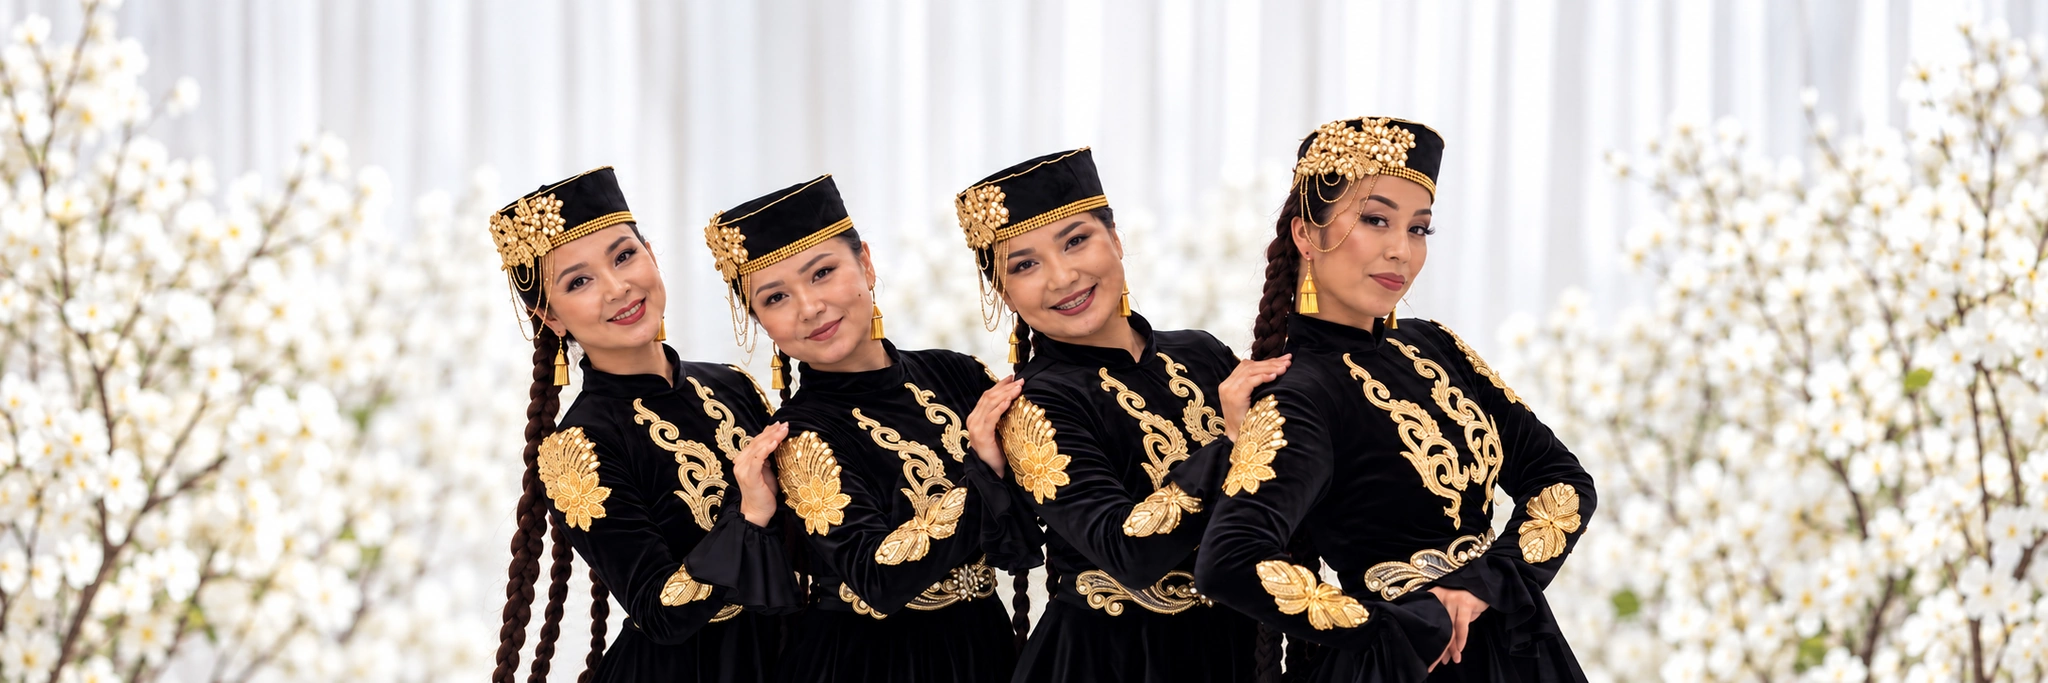
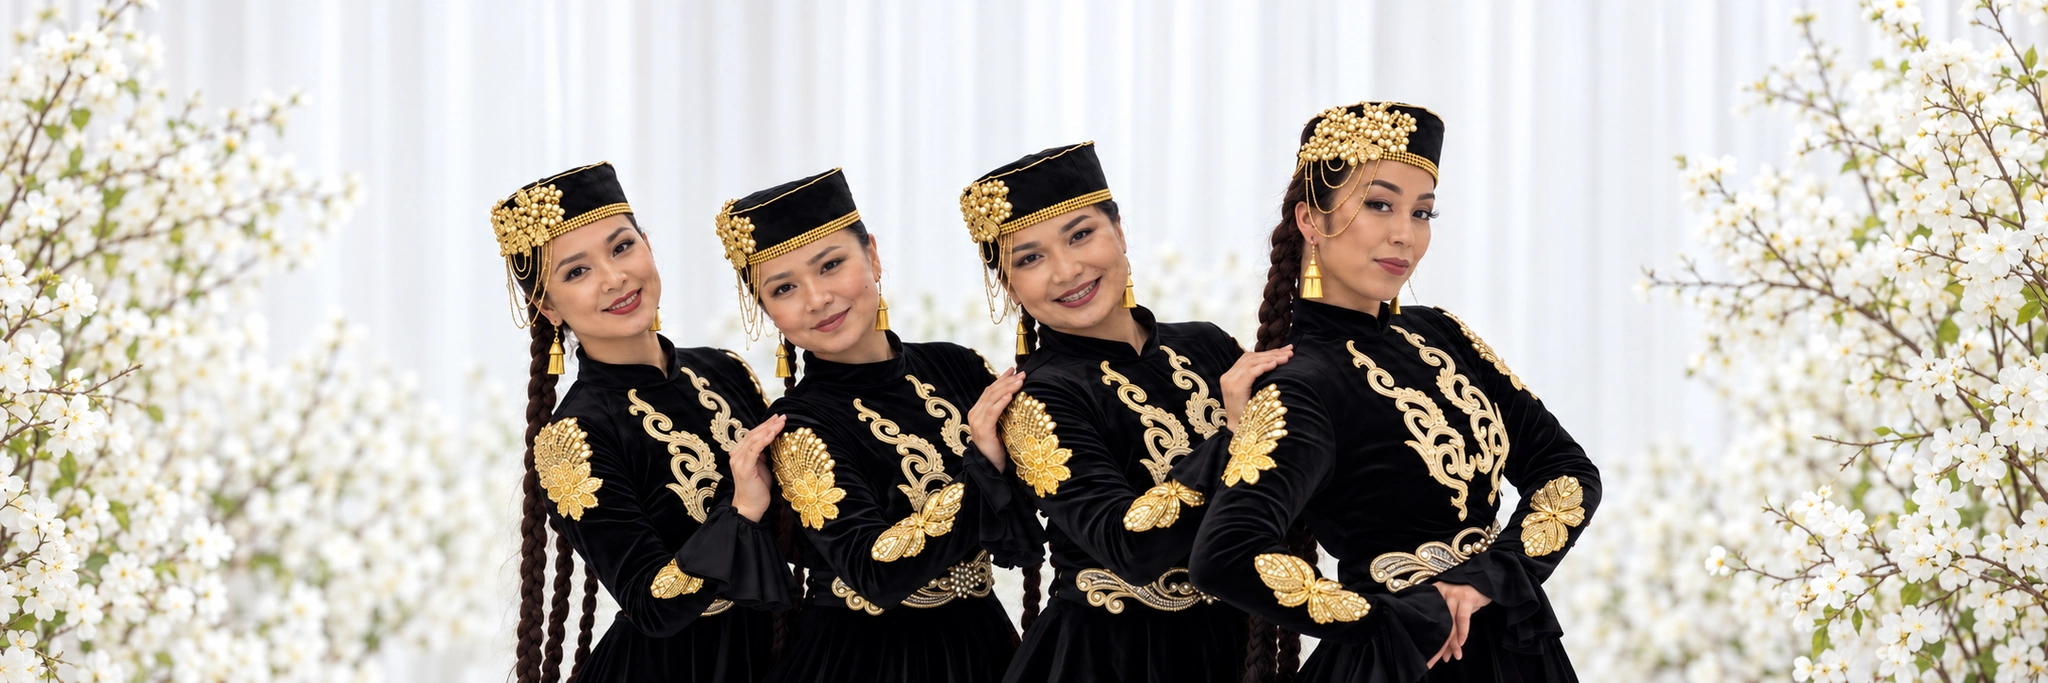
Add files via upload

diff --git a/ug/index.html b/ug/index.html
@@ -56,8 +56,8 @@
   <main id="main">
     <section class="hero" id="home" aria-labelledby="hero-title">
       <picture class="hero-art" aria-hidden="true">
-        <source media="(max-width:760px)" srcset="../images/hero-mobile-640.webp 640w, ../images/hero-mobile-1024.webp 1024w" sizes="100vw" width="1024" height="1536">
-        <img src="../images/hero-desktop-1659.webp" srcset="../images/hero-desktop-1200.webp 1200w, ../images/hero-desktop-1659.webp 1659w" sizes="100vw" width="1659" height="948" alt="" fetchpriority="high" decoding="async">
+        <source media="(max-width:760px)" srcset="../images/hero-mobile-640.webp 640w, ../images/hero-mobile-1024.webp 1024w" sizes="100vw" width="1024" height="931">
+        <img src="../images/hero-desktop-1659.webp" srcset="../images/hero-desktop-1200.webp 1200w, ../images/hero-desktop-1659.webp 1659w" sizes="100vw" width="1659" height="925" alt="" fetchpriority="high" decoding="async">
       </picture>
       <div class="hero-content">
         <h1 id="hero-title"><span>Һәрәкәттики</span><span>сәнъәт.</span></h1>
@@ -80,7 +80,7 @@
     </section>
     <section class="team-section section container" id="team" aria-labelledby="team-title">
       <div class="section-head reveal"><h2 id="team-title">Қатнашқучилар</h2><p>Биз музыкини һәрәкәткә, һәрәкәтни болса қәлбиңиздә қалидиған һессиятқа айландуримиз.</p></div>
-      <div class="team-grid"><article class="team-card reveal" data-person="nigara"><a class="portrait photo-link" href="../images/nigara.jpg" data-lightbox="team" data-caption="Нигара" aria-label="Сүрәтни ечиш — Нигара"><img src="../images/nigara.webp" width="1000" height="1333" alt="SAPFIR ансамблиниң қатнашқучиси — Нигара" loading="lazy" decoding="async"><span class="portrait-expand"><svg class="icon" aria-hidden="true"><use href="#i-expand"/></svg></span></a><div class="person-info"><h3>Нигара</h3></div></article><article class="team-card reveal" data-person="diyara"><a class="portrait photo-link" href="../images/diyara.jpg" data-lightbox="team" data-caption="Дияра" aria-label="Сүрәтни ечиш — Дияра"><img src="../images/diyara.webp" width="1152" height="1536" alt="SAPFIR ансамблиниң қатнашқучиси — Дияра" loading="lazy" decoding="async"><span class="portrait-expand"><svg class="icon" aria-hidden="true"><use href="#i-expand"/></svg></span></a><div class="person-info"><h3>Дияра</h3></div></article><article class="team-card reveal" data-person="niyara"><a class="portrait photo-link" href="../images/niyara-original.png" data-lightbox="team" data-caption="Нияра" aria-label="Сүрәтни ечиш — Нияра"><img src="../images/niyara.webp" width="1179" height="2556" alt="SAPFIR ансамблиниң қатнашқучиси — Нияра" loading="lazy" decoding="async"><span class="portrait-expand"><svg class="icon" aria-hidden="true"><use href="#i-expand"/></svg></span></a><div class="person-info"><h3>Нияра</h3></div></article><article class="team-card reveal" data-person="mira"><a class="portrait photo-link" href="../images/mira.jpg" data-lightbox="team" data-caption="Мира" aria-label="Сүрәтни ечиш — Мира"><img src="../images/mira.webp" width="1000" height="1333" alt="SAPFIR ансамблиниң қатнашқучиси — Мира" loading="lazy" decoding="async"><span class="portrait-expand"><svg class="icon" aria-hidden="true"><use href="#i-expand"/></svg></span></a><div class="person-info"><h3>Мира</h3></div></article><article class="team-card reveal" data-person="yasmina"><a class="portrait photo-link" href="../images/yasmina.jpg" data-lightbox="team" data-caption="Ясмина" aria-label="Сүрәтни ечиш — Ясмина"><img src="../images/yasmina.webp" width="1152" height="1536" alt="SAPFIR ансамблиниң қатнашқучиси — Ясмина" loading="lazy" decoding="async"><span class="portrait-expand"><svg class="icon" aria-hidden="true"><use href="#i-expand"/></svg></span></a><div class="person-info"><h3>Ясмина</h3></div></article><article class="team-card reveal" data-person="araylym"><a class="portrait photo-link" href="../images/araylym.jpg" data-lightbox="team" data-caption="Арайлым" aria-label="Сүрәтни ечиш — Арайлым"><img src="../images/araylym.webp" width="864" height="1536" alt="SAPFIR ансамблиниң қатнашқучиси — Арайлым" loading="lazy" decoding="async"><span class="portrait-expand"><svg class="icon" aria-hidden="true"><use href="#i-expand"/></svg></span></a><div class="person-info"><h3>Арайлым</h3></div></article><article class="team-card reveal" data-person="sabrina"><a class="portrait photo-link" href="../images/sabrina.jpg" data-lightbox="team" data-caption="Сабрина" aria-label="Сүрәтни ечиш — Сабрина"><img src="../images/sabrina.webp" width="1159" height="1536" alt="SAPFIR ансамблиниң қатнашқучиси — Сабрина" loading="lazy" decoding="async"><span class="portrait-expand"><svg class="icon" aria-hidden="true"><use href="#i-expand"/></svg></span></a><div class="person-info"><h3>Сабрина</h3></div></article><article class="team-card reveal" data-person="tamilla"><a class="portrait photo-link" href="../images/tamilla.jpg" data-lightbox="team" data-caption="Тамилла" aria-label="Сүрәтни ечиш — Тамилла"><img src="../images/tamilla.webp" width="1536" height="1027" alt="SAPFIR ансамблиниң қатнашқучиси — Тамилла" loading="lazy" decoding="async"><span class="portrait-expand"><svg class="icon" aria-hidden="true"><use href="#i-expand"/></svg></span></a><div class="person-info"><h3>Тамилла</h3></div></article></div>
+      <div class="team-grid"><article class="team-card reveal" data-person="nigara"><a class="portrait photo-link" href="../images/nigara.jpg" data-lightbox="team" data-caption="Нигара" aria-label="Сүрәтни ечиш — Нигара"><img src="../images/nigara.webp" width="1000" height="1333" alt="SAPFIR ансамблиниң қатнашқучиси — Нигара" loading="lazy" decoding="async"><span class="portrait-expand"><svg class="icon" aria-hidden="true"><use href="#i-expand"/></svg></span></a><div class="person-info"><h3>Нигара</h3></div></article><article class="team-card reveal" data-person="diyara"><a class="portrait photo-link" href="../images/diyara.jpg" data-lightbox="team" data-caption="Дияра" aria-label="Сүрәтни ечиш — Дияра"><img src="../images/diyara.webp" width="1152" height="1536" alt="SAPFIR ансамблиниң қатнашқучиси — Дияра" loading="lazy" decoding="async"><span class="portrait-expand"><svg class="icon" aria-hidden="true"><use href="#i-expand"/></svg></span></a><div class="person-info"><h3>Дияра</h3></div></article><article class="team-card reveal" data-person="niyara"><a class="portrait photo-link" href="../images/niyara-original.png" data-lightbox="team" data-caption="Нияра" aria-label="Сүрәтни ечиш — Нияра"><img src="../images/niyara.webp" width="1179" height="2050" alt="SAPFIR ансамблиниң қатнашқучиси — Нияра" loading="lazy" decoding="async"><span class="portrait-expand"><svg class="icon" aria-hidden="true"><use href="#i-expand"/></svg></span></a><div class="person-info"><h3>Нияра</h3></div></article><article class="team-card reveal" data-person="mira"><a class="portrait photo-link" href="../images/mira.jpg" data-lightbox="team" data-caption="Мира" aria-label="Сүрәтни ечиш — Мира"><img src="../images/mira.webp" width="1000" height="1333" alt="SAPFIR ансамблиниң қатнашқучиси — Мира" loading="lazy" decoding="async"><span class="portrait-expand"><svg class="icon" aria-hidden="true"><use href="#i-expand"/></svg></span></a><div class="person-info"><h3>Мира</h3></div></article><article class="team-card reveal" data-person="yasmina"><a class="portrait photo-link" href="../images/yasmina.jpg" data-lightbox="team" data-caption="Ясмина" aria-label="Сүрәтни ечиш — Ясмина"><img src="../images/yasmina.webp" width="1152" height="1536" alt="SAPFIR ансамблиниң қатнашқучиси — Ясмина" loading="lazy" decoding="async"><span class="portrait-expand"><svg class="icon" aria-hidden="true"><use href="#i-expand"/></svg></span></a><div class="person-info"><h3>Ясмина</h3></div></article><article class="team-card reveal" data-person="araylym"><a class="portrait photo-link" href="../images/araylym.jpg" data-lightbox="team" data-caption="Арайлым" aria-label="Сүрәтни ечиш — Арайлым"><img src="../images/araylym.webp" width="864" height="1536" alt="SAPFIR ансамблиниң қатнашқучиси — Арайлым" loading="lazy" decoding="async"><span class="portrait-expand"><svg class="icon" aria-hidden="true"><use href="#i-expand"/></svg></span></a><div class="person-info"><h3>Арайлым</h3></div></article><article class="team-card reveal" data-person="sabrina"><a class="portrait photo-link" href="../images/sabrina.jpg" data-lightbox="team" data-caption="Сабрина" aria-label="Сүрәтни ечиш — Сабрина"><img src="../images/sabrina.webp" width="1159" height="1536" alt="SAPFIR ансамблиниң қатнашқучиси — Сабрина" loading="lazy" decoding="async"><span class="portrait-expand"><svg class="icon" aria-hidden="true"><use href="#i-expand"/></svg></span></a><div class="person-info"><h3>Сабрина</h3></div></article><article class="team-card reveal" data-person="tamilla"><a class="portrait photo-link" href="../images/tamilla.jpg" data-lightbox="team" data-caption="Тамилла" aria-label="Сүрәтни ечиш — Тамилла"><img src="../images/tamilla.webp" width="1536" height="1027" alt="SAPFIR ансамблиниң қатнашқучиси — Тамилла" loading="lazy" decoding="async"><span class="portrait-expand"><svg class="icon" aria-hidden="true"><use href="#i-expand"/></svg></span></a><div class="person-info"><h3>Тамилла</h3></div></article></div>
     </section>
     <section class="film-section section" id="films" aria-labelledby="film-title">
       <div class="container"><div class="section-head reveal"><div><h2 id="film-title">Пәқәт көрүшла әмәс.<br><span class="soft-text">Һис қилиш.</span></h2></div><p>Җанлиқ ритм. Нәпис һәрәкәт. Қайта көргүң келидиған һессият.</p></div>

diff --git a/kk/index.html b/kk/index.html
@@ -56,8 +56,8 @@
   <main id="main">
     <section class="hero" id="home" aria-labelledby="hero-title">
       <picture class="hero-art" aria-hidden="true">
-        <source media="(max-width:760px)" srcset="../images/hero-mobile-640.webp 640w, ../images/hero-mobile-1024.webp 1024w" sizes="100vw" width="1024" height="1536">
-        <img src="../images/hero-desktop-1659.webp" srcset="../images/hero-desktop-1200.webp 1200w, ../images/hero-desktop-1659.webp 1659w" sizes="100vw" width="1659" height="948" alt="" fetchpriority="high" decoding="async">
+        <source media="(max-width:760px)" srcset="../images/hero-mobile-640.webp 640w, ../images/hero-mobile-1024.webp 1024w" sizes="100vw" width="1024" height="931">
+        <img src="../images/hero-desktop-1659.webp" srcset="../images/hero-desktop-1200.webp 1200w, ../images/hero-desktop-1659.webp 1659w" sizes="100vw" width="1659" height="925" alt="" fetchpriority="high" decoding="async">
       </picture>
       <div class="hero-content">
         <h1 id="hero-title"><span>Қозғалыста</span><span>болу өнері.</span></h1>
@@ -80,7 +80,7 @@
     </section>
     <section class="team-section section container" id="team" aria-labelledby="team-title">
       <div class="section-head reveal"><h2 id="team-title">Қатысушылар</h2><p>Біз музыканы қимылға, ал қимылды жаныңызда қалатын сезімге айналдырамыз.</p></div>
-      <div class="team-grid"><article class="team-card reveal" data-person="nigara"><a class="portrait photo-link" href="../images/nigara.jpg" data-lightbox="team" data-caption="Нигара" aria-label="Суретті ашу — Нигара"><img src="../images/nigara.webp" width="1000" height="1333" alt="SAPFIR ансамблінің қатысушысы — Нигара" loading="lazy" decoding="async"><span class="portrait-expand"><svg class="icon" aria-hidden="true"><use href="#i-expand"/></svg></span></a><div class="person-info"><h3>Нигара</h3></div></article><article class="team-card reveal" data-person="diyara"><a class="portrait photo-link" href="../images/diyara.jpg" data-lightbox="team" data-caption="Дияра" aria-label="Суретті ашу — Дияра"><img src="../images/diyara.webp" width="1152" height="1536" alt="SAPFIR ансамблінің қатысушысы — Дияра" loading="lazy" decoding="async"><span class="portrait-expand"><svg class="icon" aria-hidden="true"><use href="#i-expand"/></svg></span></a><div class="person-info"><h3>Дияра</h3></div></article><article class="team-card reveal" data-person="niyara"><a class="portrait photo-link" href="../images/niyara-original.png" data-lightbox="team" data-caption="Нияра" aria-label="Суретті ашу — Нияра"><img src="../images/niyara.webp" width="1179" height="2556" alt="SAPFIR ансамблінің қатысушысы — Нияра" loading="lazy" decoding="async"><span class="portrait-expand"><svg class="icon" aria-hidden="true"><use href="#i-expand"/></svg></span></a><div class="person-info"><h3>Нияра</h3></div></article><article class="team-card reveal" data-person="mira"><a class="portrait photo-link" href="../images/mira.jpg" data-lightbox="team" data-caption="Мира" aria-label="Суретті ашу — Мира"><img src="../images/mira.webp" width="1000" height="1333" alt="SAPFIR ансамблінің қатысушысы — Мира" loading="lazy" decoding="async"><span class="portrait-expand"><svg class="icon" aria-hidden="true"><use href="#i-expand"/></svg></span></a><div class="person-info"><h3>Мира</h3></div></article><article class="team-card reveal" data-person="yasmina"><a class="portrait photo-link" href="../images/yasmina.jpg" data-lightbox="team" data-caption="Ясмина" aria-label="Суретті ашу — Ясмина"><img src="../images/yasmina.webp" width="1152" height="1536" alt="SAPFIR ансамблінің қатысушысы — Ясмина" loading="lazy" decoding="async"><span class="portrait-expand"><svg class="icon" aria-hidden="true"><use href="#i-expand"/></svg></span></a><div class="person-info"><h3>Ясмина</h3></div></article><article class="team-card reveal" data-person="araylym"><a class="portrait photo-link" href="../images/araylym.jpg" data-lightbox="team" data-caption="Арайлым" aria-label="Суретті ашу — Арайлым"><img src="../images/araylym.webp" width="864" height="1536" alt="SAPFIR ансамблінің қатысушысы — Арайлым" loading="lazy" decoding="async"><span class="portrait-expand"><svg class="icon" aria-hidden="true"><use href="#i-expand"/></svg></span></a><div class="person-info"><h3>Арайлым</h3></div></article><article class="team-card reveal" data-person="sabrina"><a class="portrait photo-link" href="../images/sabrina.jpg" data-lightbox="team" data-caption="Сабрина" aria-label="Суретті ашу — Сабрина"><img src="../images/sabrina.webp" width="1159" height="1536" alt="SAPFIR ансамблінің қатысушысы — Сабрина" loading="lazy" decoding="async"><span class="portrait-expand"><svg class="icon" aria-hidden="true"><use href="#i-expand"/></svg></span></a><div class="person-info"><h3>Сабрина</h3></div></article><article class="team-card reveal" data-person="tamilla"><a class="portrait photo-link" href="../images/tamilla.jpg" data-lightbox="team" data-caption="Тамилла" aria-label="Суретті ашу — Тамилла"><img src="../images/tamilla.webp" width="1536" height="1027" alt="SAPFIR ансамблінің қатысушысы — Тамилла" loading="lazy" decoding="async"><span class="portrait-expand"><svg class="icon" aria-hidden="true"><use href="#i-expand"/></svg></span></a><div class="person-info"><h3>Тамилла</h3></div></article></div>
+      <div class="team-grid"><article class="team-card reveal" data-person="nigara"><a class="portrait photo-link" href="../images/nigara.jpg" data-lightbox="team" data-caption="Нигара" aria-label="Суретті ашу — Нигара"><img src="../images/nigara.webp" width="1000" height="1333" alt="SAPFIR ансамблінің қатысушысы — Нигара" loading="lazy" decoding="async"><span class="portrait-expand"><svg class="icon" aria-hidden="true"><use href="#i-expand"/></svg></span></a><div class="person-info"><h3>Нигара</h3></div></article><article class="team-card reveal" data-person="diyara"><a class="portrait photo-link" href="../images/diyara.jpg" data-lightbox="team" data-caption="Дияра" aria-label="Суретті ашу — Дияра"><img src="../images/diyara.webp" width="1152" height="1536" alt="SAPFIR ансамблінің қатысушысы — Дияра" loading="lazy" decoding="async"><span class="portrait-expand"><svg class="icon" aria-hidden="true"><use href="#i-expand"/></svg></span></a><div class="person-info"><h3>Дияра</h3></div></article><article class="team-card reveal" data-person="niyara"><a class="portrait photo-link" href="../images/niyara-original.png" data-lightbox="team" data-caption="Нияра" aria-label="Суретті ашу — Нияра"><img src="../images/niyara.webp" width="1179" height="2050" alt="SAPFIR ансамблінің қатысушысы — Нияра" loading="lazy" decoding="async"><span class="portrait-expand"><svg class="icon" aria-hidden="true"><use href="#i-expand"/></svg></span></a><div class="person-info"><h3>Нияра</h3></div></article><article class="team-card reveal" data-person="mira"><a class="portrait photo-link" href="../images/mira.jpg" data-lightbox="team" data-caption="Мира" aria-label="Суретті ашу — Мира"><img src="../images/mira.webp" width="1000" height="1333" alt="SAPFIR ансамблінің қатысушысы — Мира" loading="lazy" decoding="async"><span class="portrait-expand"><svg class="icon" aria-hidden="true"><use href="#i-expand"/></svg></span></a><div class="person-info"><h3>Мира</h3></div></article><article class="team-card reveal" data-person="yasmina"><a class="portrait photo-link" href="../images/yasmina.jpg" data-lightbox="team" data-caption="Ясмина" aria-label="Суретті ашу — Ясмина"><img src="../images/yasmina.webp" width="1152" height="1536" alt="SAPFIR ансамблінің қатысушысы — Ясмина" loading="lazy" decoding="async"><span class="portrait-expand"><svg class="icon" aria-hidden="true"><use href="#i-expand"/></svg></span></a><div class="person-info"><h3>Ясмина</h3></div></article><article class="team-card reveal" data-person="araylym"><a class="portrait photo-link" href="../images/araylym.jpg" data-lightbox="team" data-caption="Арайлым" aria-label="Суретті ашу — Арайлым"><img src="../images/araylym.webp" width="864" height="1536" alt="SAPFIR ансамблінің қатысушысы — Арайлым" loading="lazy" decoding="async"><span class="portrait-expand"><svg class="icon" aria-hidden="true"><use href="#i-expand"/></svg></span></a><div class="person-info"><h3>Арайлым</h3></div></article><article class="team-card reveal" data-person="sabrina"><a class="portrait photo-link" href="../images/sabrina.jpg" data-lightbox="team" data-caption="Сабрина" aria-label="Суретті ашу — Сабрина"><img src="../images/sabrina.webp" width="1159" height="1536" alt="SAPFIR ансамблінің қатысушысы — Сабрина" loading="lazy" decoding="async"><span class="portrait-expand"><svg class="icon" aria-hidden="true"><use href="#i-expand"/></svg></span></a><div class="person-info"><h3>Сабрина</h3></div></article><article class="team-card reveal" data-person="tamilla"><a class="portrait photo-link" href="../images/tamilla.jpg" data-lightbox="team" data-caption="Тамилла" aria-label="Суретті ашу — Тамилла"><img src="../images/tamilla.webp" width="1536" height="1027" alt="SAPFIR ансамблінің қатысушысы — Тамилла" loading="lazy" decoding="async"><span class="portrait-expand"><svg class="icon" aria-hidden="true"><use href="#i-expand"/></svg></span></a><div class="person-info"><h3>Тамилла</h3></div></article></div>
     </section>
     <section class="film-section section" id="films" aria-labelledby="film-title">
       <div class="container"><div class="section-head reveal"><div><h2 id="film-title">Жай ғана көру емес.<br><span class="soft-text">Сезіну.</span></h2></div><p>Жанды ырғақ. Әсем қимыл. Қайта көргің келетін әсер.</p></div>

diff --git a/assets/site.css b/assets/site.css
@@ -118,3 +118,7 @@ html.motion-paused{scroll-behavior:auto}.motion-paused *,.motion-paused *:before
 @media(max-width:1100px) and (min-width:761px){.header-actions{gap:13px}.header-languages{gap:10px}.header-languages a{font-size:11px}.desktop-nav{gap:18px}.header-inner{gap:16px}.header-book{padding-inline:16px}}
 @media(max-width:760px){.header-actions{gap:14px}.header-languages{gap:12px}.header-languages a{font-size:11px}.intro{margin-top:10px}.intro-card picture{mask-image:linear-gradient(to bottom,transparent 0,#000 12px);-webkit-mask-image:linear-gradient(to bottom,transparent 0,#000 12px)}.site-footer{display:flex;flex-wrap:wrap}.copyright{margin-right:auto}}
 @media(max-width:370px){.header-actions{gap:8px}.header-languages{gap:10px}}
+
+/* Approved red scene: preserve image proportions and all four dancers. */
+@media(min-width:761px){.hero{aspect-ratio:1836/1024}.hero-art img{object-fit:cover}.hero-content{max-width:40%}.hero h1{font-size:clamp(32px,4.05vw,69px)}.hero-description{font-size:clamp(12px,1.3vw,20px)}}
+@media(max-width:760px){.hero-art{aspect-ratio:1126/1024}.intro-card img{object-position:center}}
